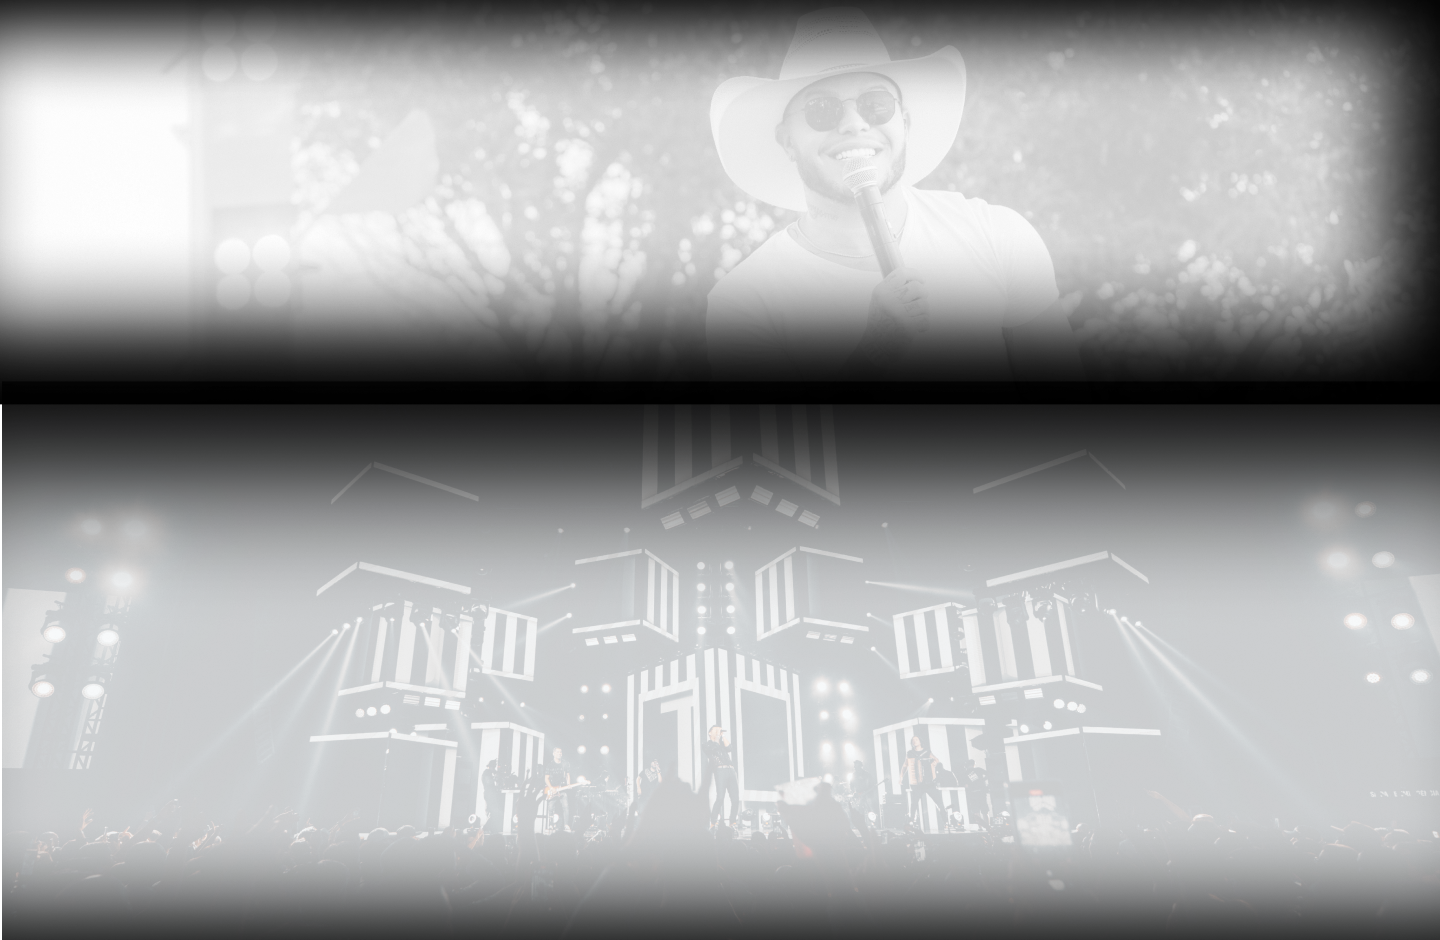
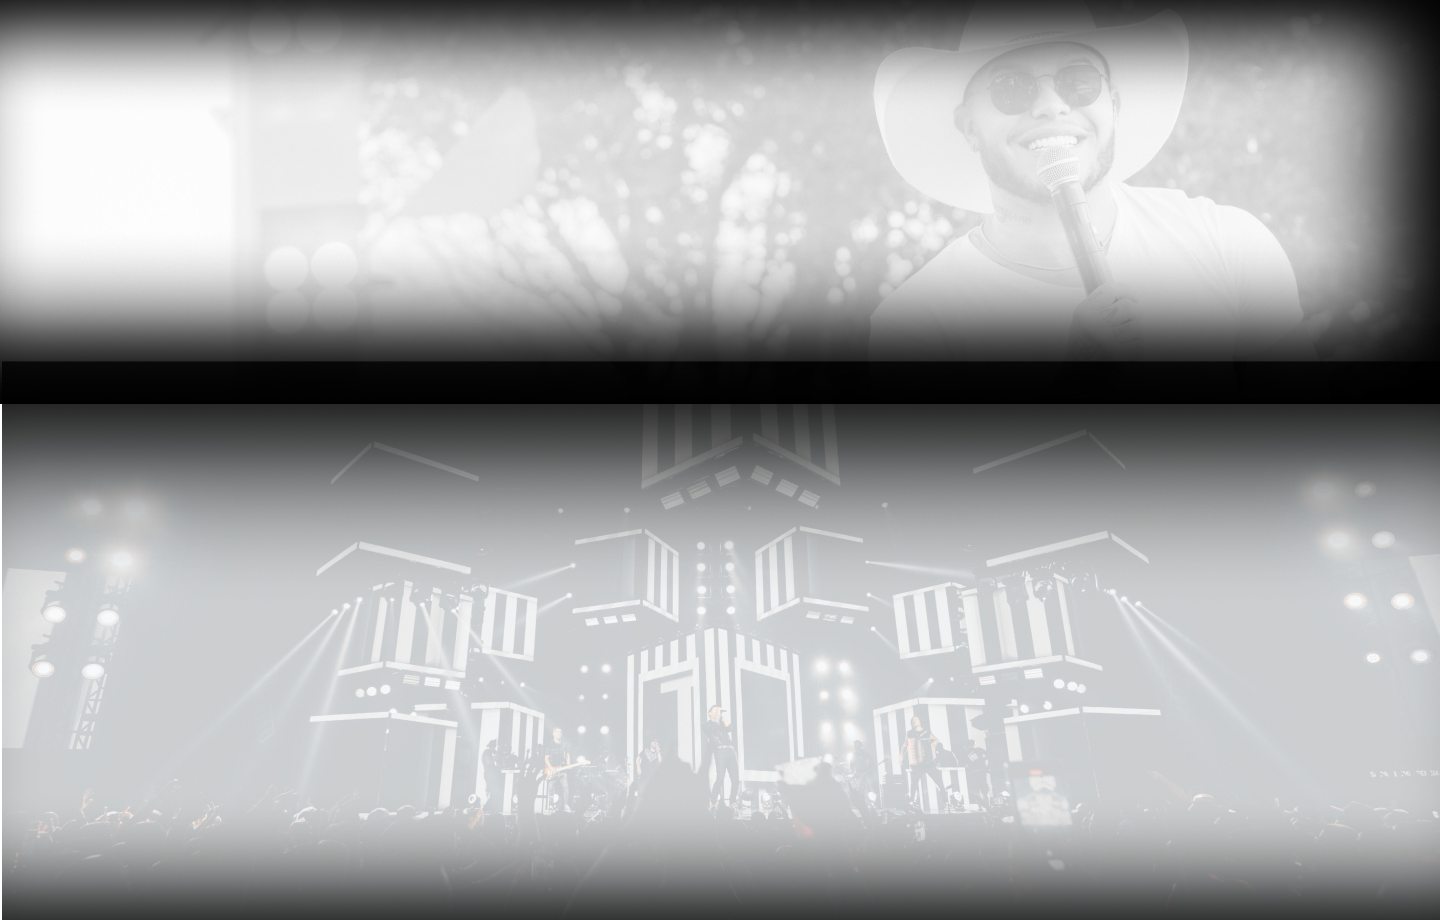
.

diff --git a/src/styles/styles.css b/src/styles/styles.css
@@ -326,7 +326,7 @@ video {
 #msc-yout{
     background-image: url(../../images/background-desktop-youtube.png);
     background-repeat: no-repeat;
-    background-position: center;
+    background-position: auto;
     height: 100vh;
     margin: 0 auto;
 }
@@ -455,6 +455,14 @@ video {
     #musicas .container-dir .plataformas img{
         width: 100%;
     }
+    #msc-yout iframe{
+        width: 90%;
+    }
+    #msc-yout{
+        background-image: url(../../images/background-mobile-youtube.png);
+        margin: 100px auto;
+    }
+
 }
 @media (min-width: 576px) and (max-width: 767.98px) {
     .background-image {
@@ -559,6 +567,13 @@ video {
     }
     #musicas .container-dir .plataformas img{
         width: 100%;
+    }
+    #msc-yout iframe{
+        width: 90%;
+    }
+    #msc-yout{
+        background-image: url(../../images/background-mobile-youtube.png);
+        margin: 100px auto;
     }
 }
 @media (min-width: 768px) and (max-width: 991.98px) {
@@ -667,6 +682,13 @@ video {
     }
     #musicas .container-dir .plataformas img{
         width: 100%;
+    }
+    #msc-yout iframe{
+        width: 90%;
+    }
+    #msc-yout{
+        background-image: url(../../images/background-mobile-youtube.png);
+        margin: 100px auto;
     }
 
 }
